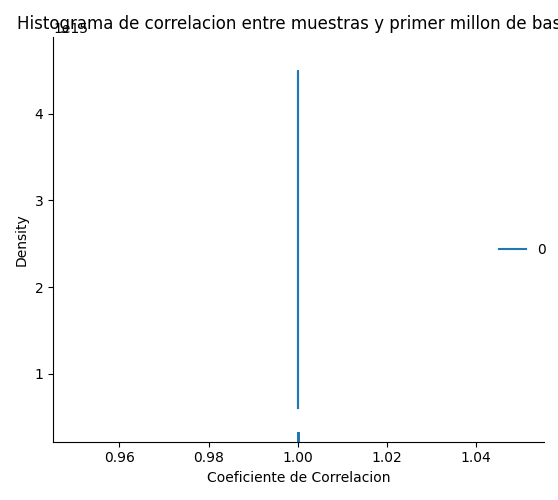
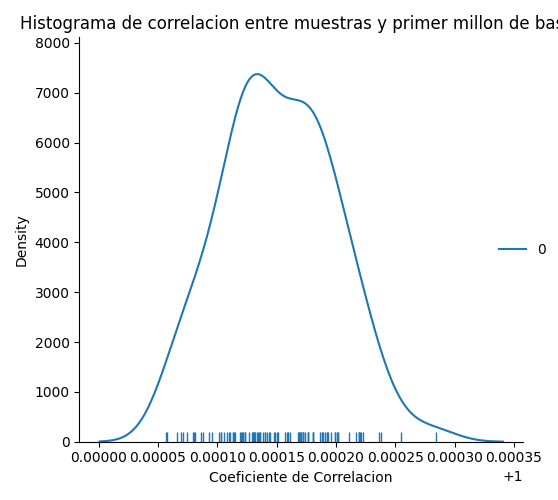
FIX corr plots

diff --git a/proyecto/scripts/Mutual.py b/proyecto/scripts/Mutual.py
@@ -93,12 +93,13 @@ def random_sampling_corr(seq, samples=1000000):
     print(subseq[0:500])
     for sample in range(0,100):
         interval = random.randrange(0, L-5000)
+        print('intervalo de seq', interval)
         small_sample = subseq[interval:interval+5001]
         I = []
         K = 50
         T = int(len(small_sample)/2)
         for k in range(K):
-            C, X, Y = genera_conjuntos(seq, k, T)
+            C, X, Y = genera_conjuntos(small_sample, k, T)
             I.append(adjusted_mutual_info_score(X,Y))
         mutual_info_samples.append(I)
     mutual_info_samples = np.array(mutual_info_samples)
@@ -119,7 +120,10 @@ def get_corr_against_gen(sequence):
 
         corrs = []
         for sample in samples_mutual_info:
-            corrs.append(np.correlate(seq_mutual_info,sample))
+            current_corr =np.correlate(seq_mutual_info,sample)
+            corrs.append(current_corr)
+            print('corr',current_corr)
+        print('tammaño arreglo corr', len(corrs))
         
         corrs = np.array(corrs)
         sns.displot(corrs, kind="kde", rug=True)
